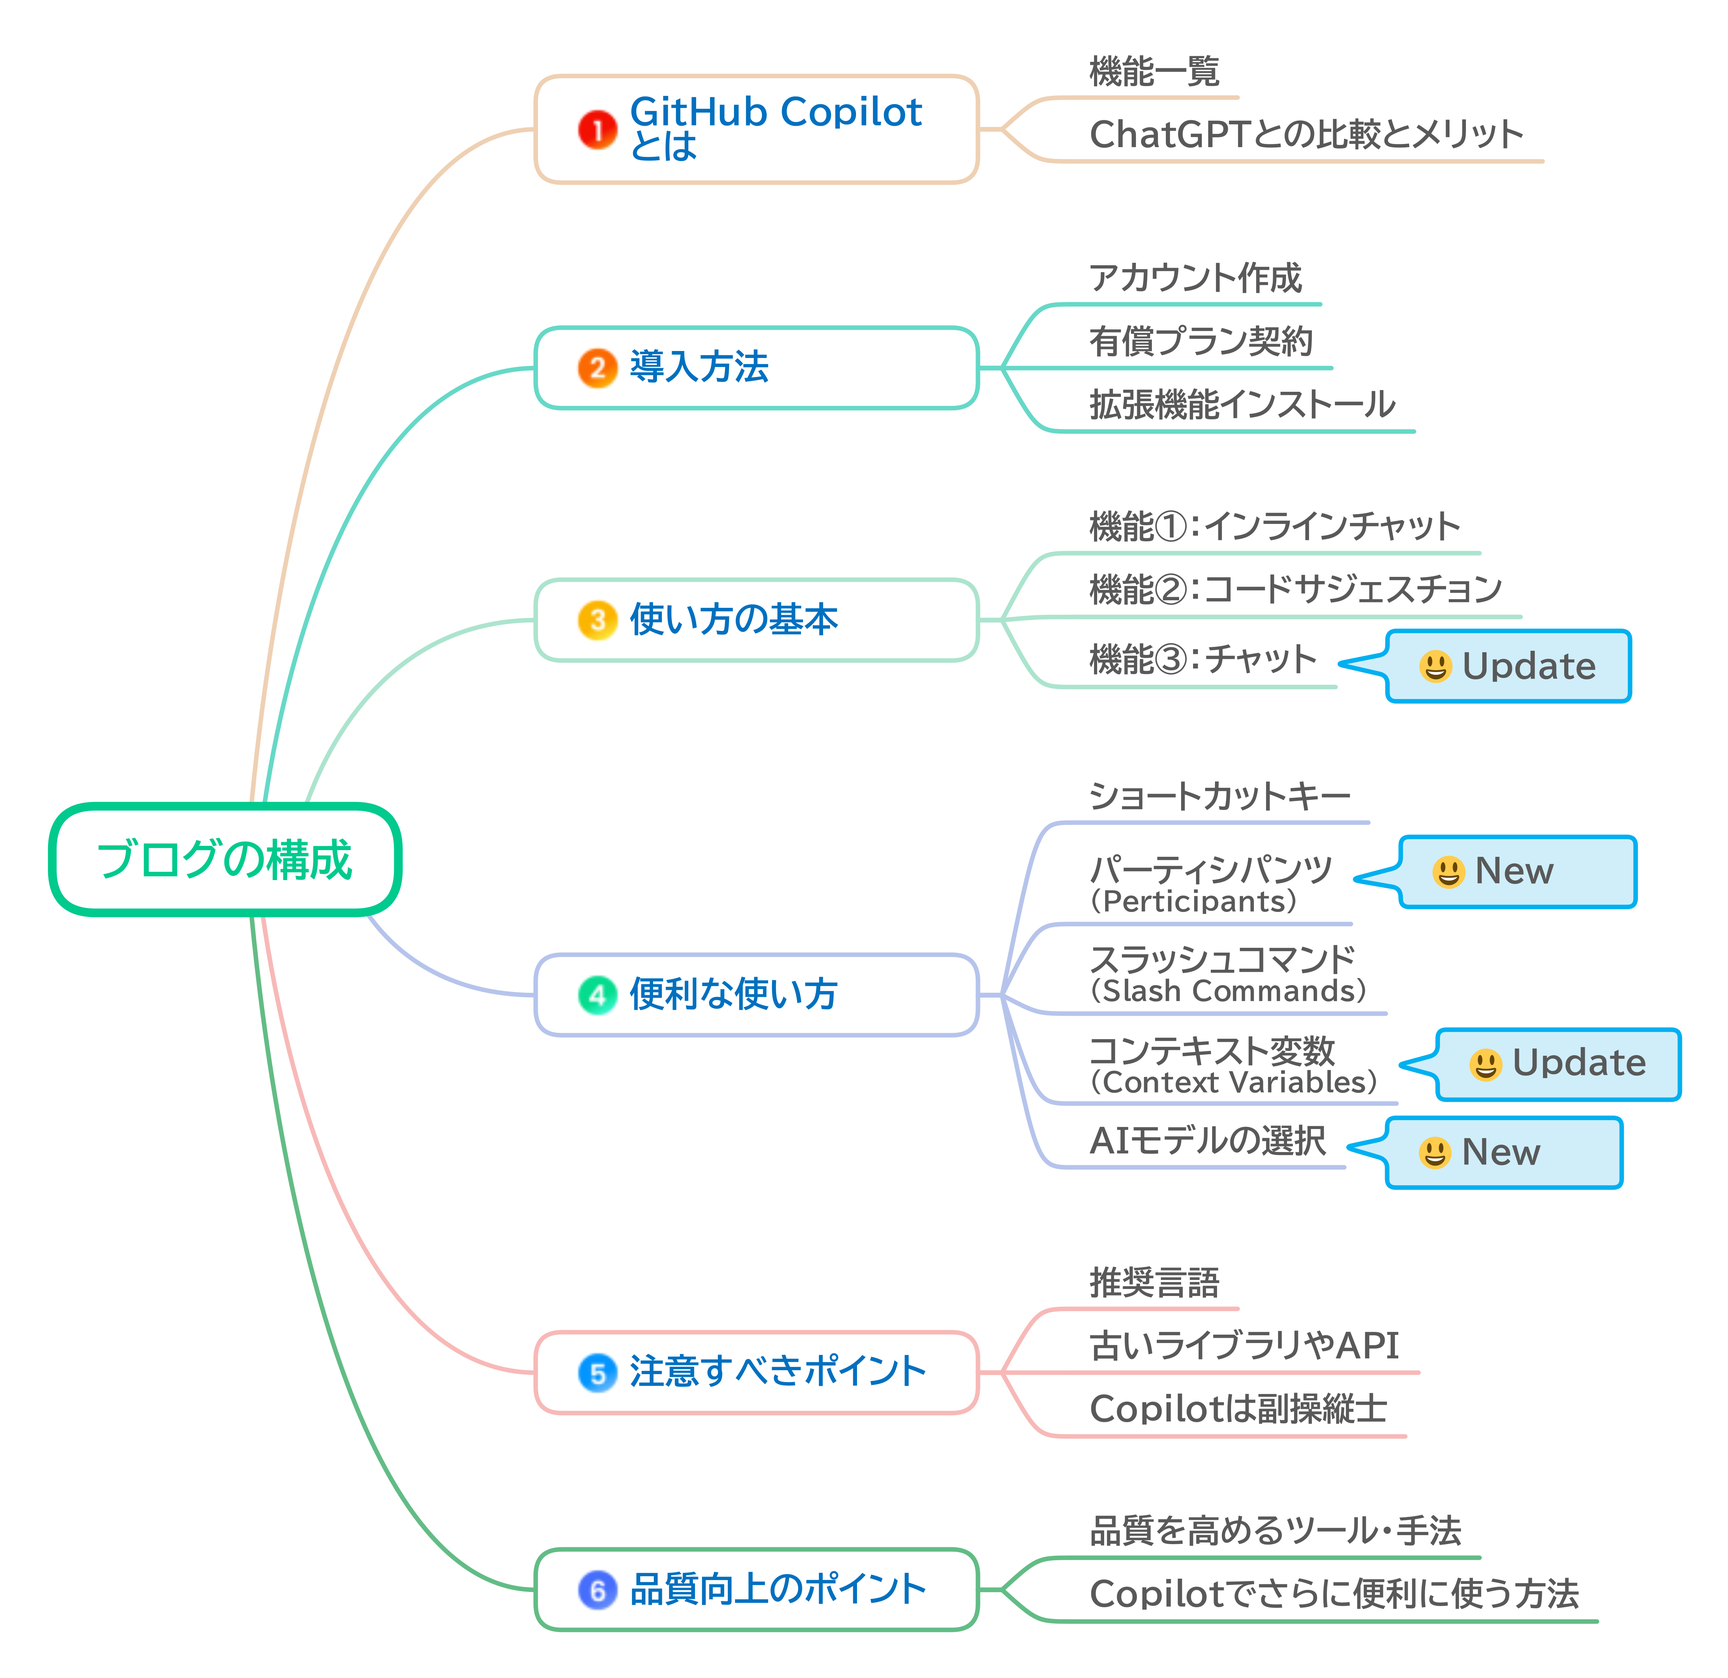
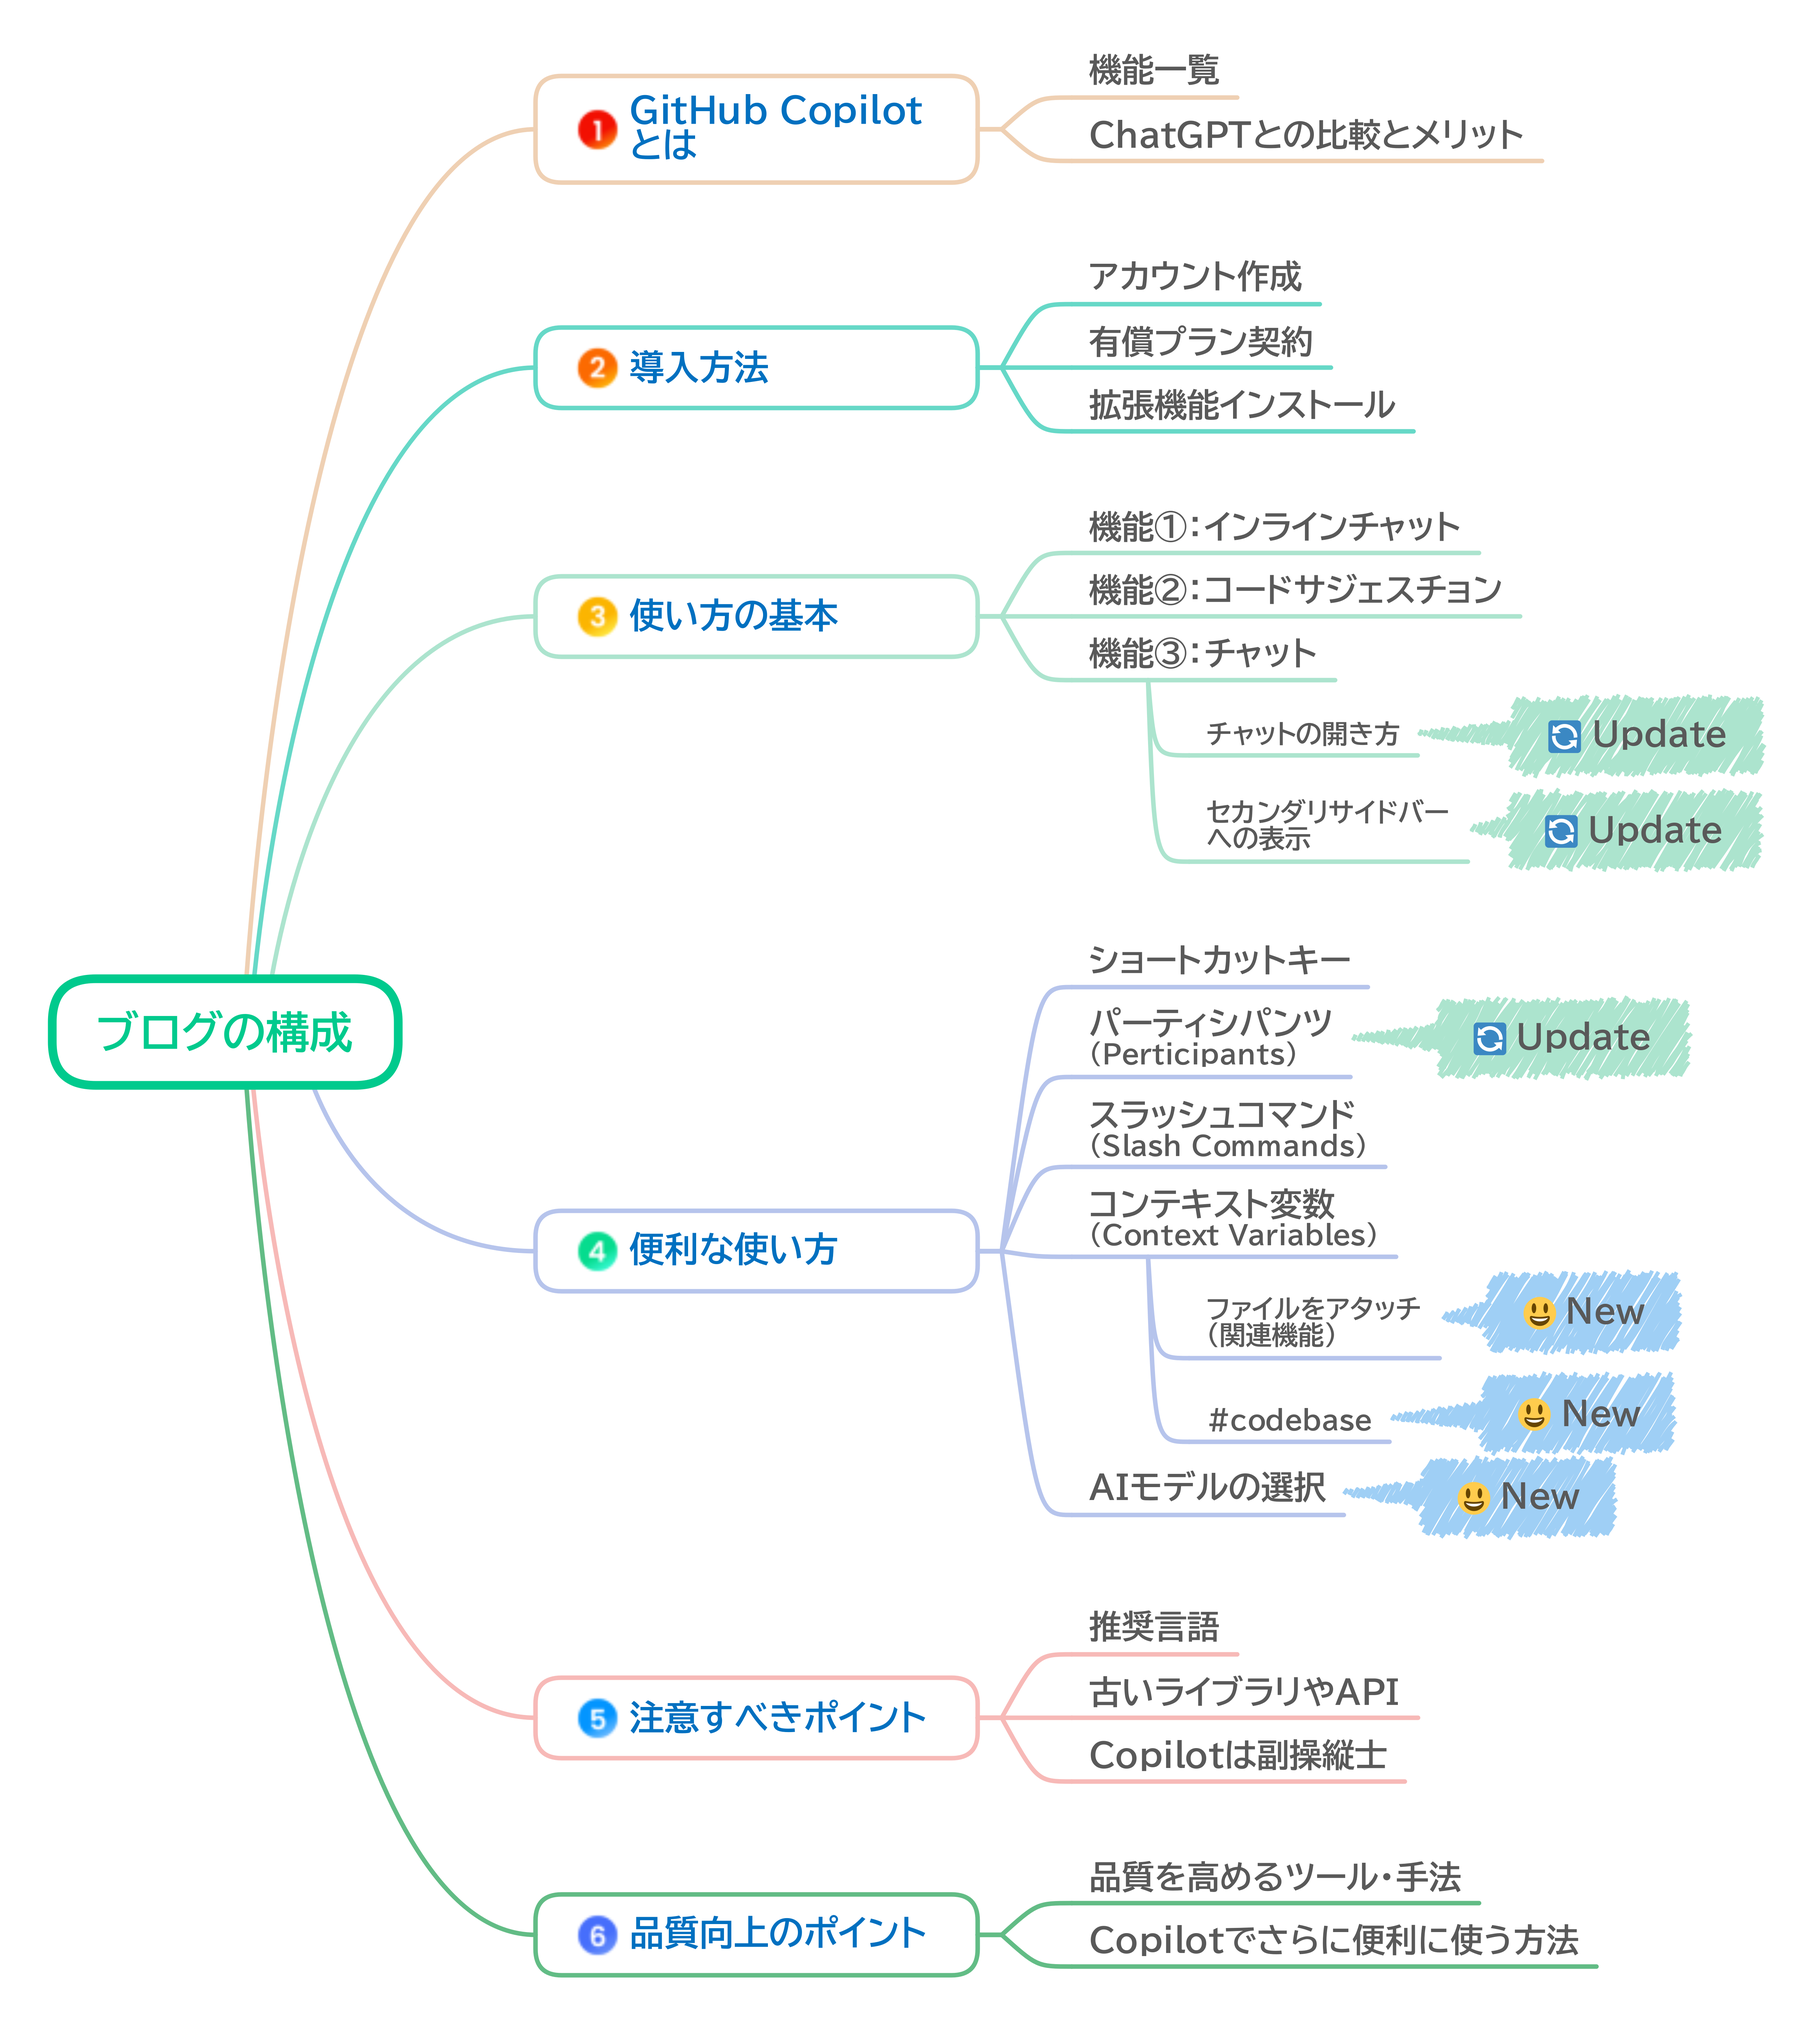
ブログ構成更新、typo修正

diff --git a/articles/turtle-20240223-gitcopilot.md b/articles/turtle-20240223-gitcopilot.md
@@ -696,7 +696,7 @@ https://zenn.dev/safubuki/articles/turtle-20240721-tripo-3dp
   - ブログの構成の章を追加して、ブログの一覧性を向上
   - チャット機能の起動方法や表示位置について記載
   - チャット機能のgif動画を更新
-  - 便利な機能の章を追加して、そちらにコンテキスト変数などを移動
+  - 便利な使い方の章を追加して、コンテキスト変数などを移動
   - パーティシパンツ（Participants）章を新規追加
   - コンテキスト変数の#fileにファイルをアタッチする機能を新規追加
   - コンテキスト変数#codebaseを新規追加
